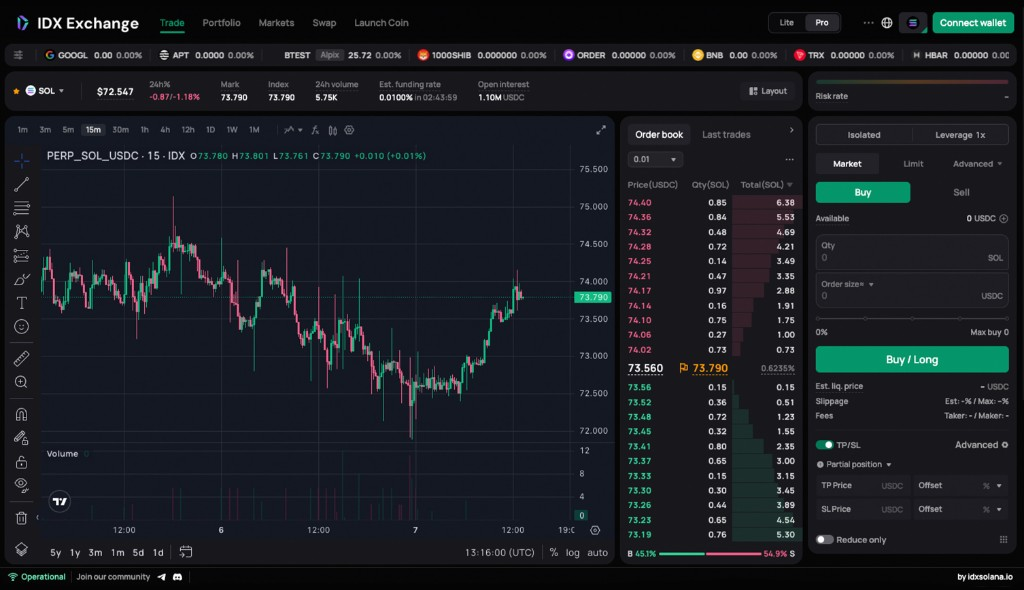
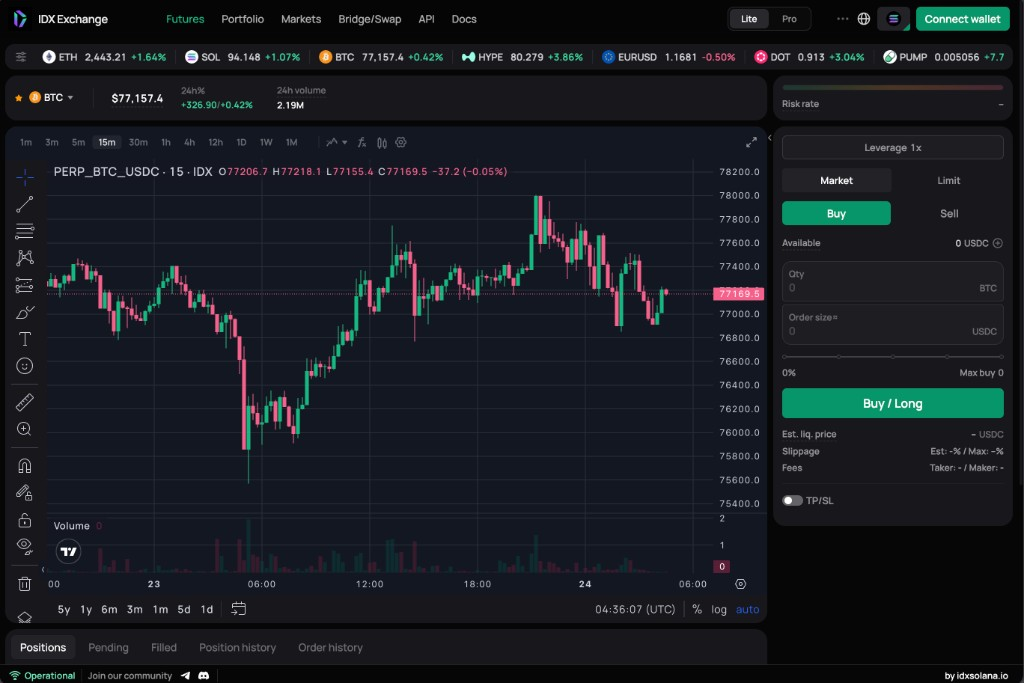
Refactor Exchange Home components and styles for improved layout and image handling
- Removed the device notch from the ExchangeHomePage component for a cleaner design.
- Updated aspect ratio in CSS to match the new image dimensions for better visual consistency.
- Adjusted image object-fit properties to enhance display quality on the laptop device screen.
- Changed menu items in the configuration to use navItems for better navigation management.

diff --git a/app/styles/exchange-home.css b/app/styles/exchange-home.css
@@ -429,36 +429,14 @@ button.ex-btn {
 
 .ex-device-laptop .ex-device-screen {
   border-radius: calc(2.5 * var(--ex-mm));
-  aspect-ratio: 3456 / 2234;
+  /* Match public/exchange-home/trade-desktop.png (1024×683) */
+  aspect-ratio: 1024 / 683;
   box-shadow: inset 0 0 0 1px rgba(0, 0, 0, 0.45);
 }
 
-.ex-device-notch {
-  position: absolute;
-  top: 0;
-  left: 50%;
-  z-index: 3;
-  width: calc(32 * var(--ex-mm));
-  height: calc(7.4 * var(--ex-mm));
-  border-radius: 0 0 calc(4 * var(--ex-mm)) calc(4 * var(--ex-mm));
-  transform: translateX(-50%);
-  background: #050506;
-}
-
-.ex-device-notch::after {
-  content: "";
-  position: absolute;
-  top: 50%;
-  left: 50%;
-  width: calc(3.2 * var(--ex-mm));
-  height: calc(3.2 * var(--ex-mm));
-  border-radius: 50%;
-  transform: translate(-50%, -50%);
-  background: radial-gradient(circle at 38% 32%, #3a3a48 0%, #111 55%, #000 100%);
-}
-
-.ex-device-laptop .ex-shot {
-  object-fit: contain;
+.ex-device-laptop .ex-device-screen > .ex-shot {
+  object-fit: cover;
+  object-position: top center;
 }
 
 .ex-device-base {

diff --git a/app/components/exchange-home/ExchangeHomePage.tsx b/app/components/exchange-home/ExchangeHomePage.tsx
@@ -137,7 +137,6 @@ export default function ExchangeHomePage() {
                 <div className="ex-device ex-device-laptop">
                   <div className="ex-device-lid">
                     <div className="ex-device-screen">
-                      <span className="ex-device-notch" aria-hidden="true" />
                       <img
                         className="ex-shot"
                         src={withBasePath("/exchange-home/trade-desktop.png")}

diff --git a/app/utils/config.tsx b/app/utils/config.tsx
@@ -376,7 +376,7 @@ export const useOrderlyConfig = () => {
           >
             {useCompactHeader && (
               <CustomLeftNav
-                menus={translatedEnabledMenus}
+                menus={navItems}
                 externalLinks={customMenus}
               />
             )}
